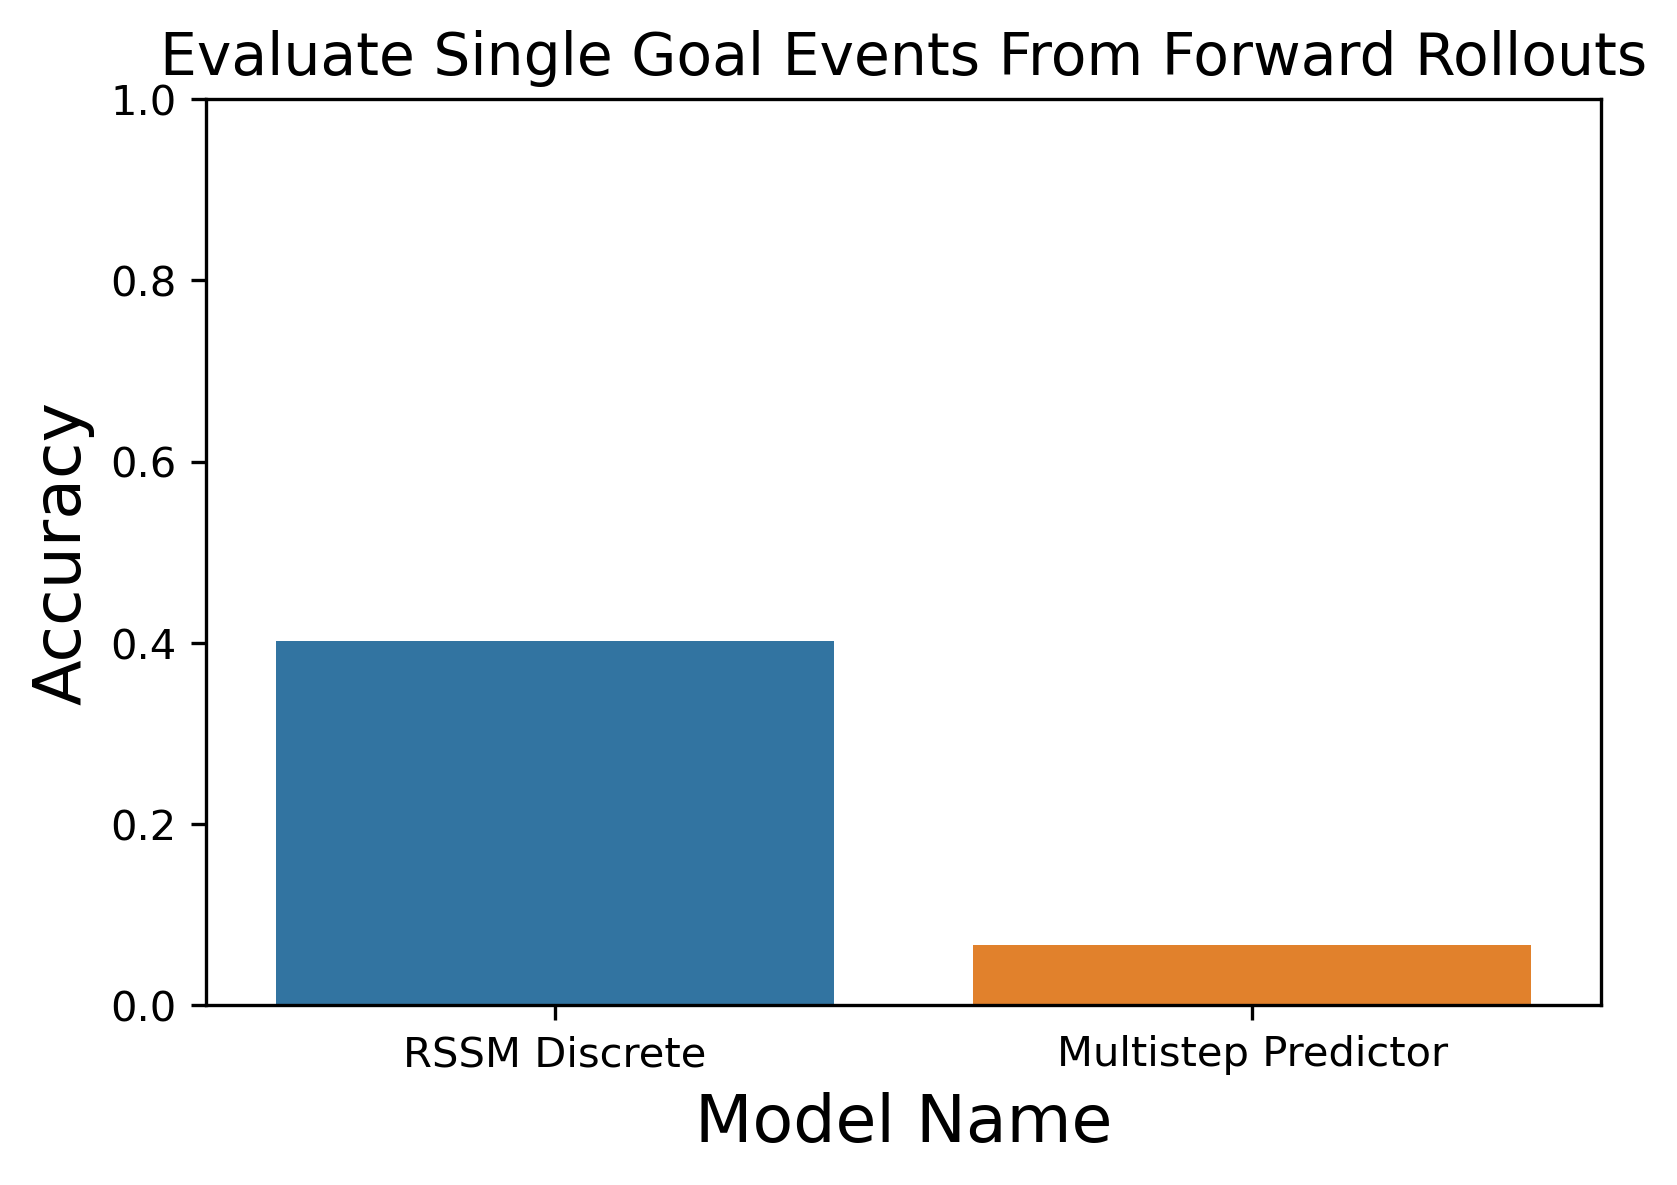
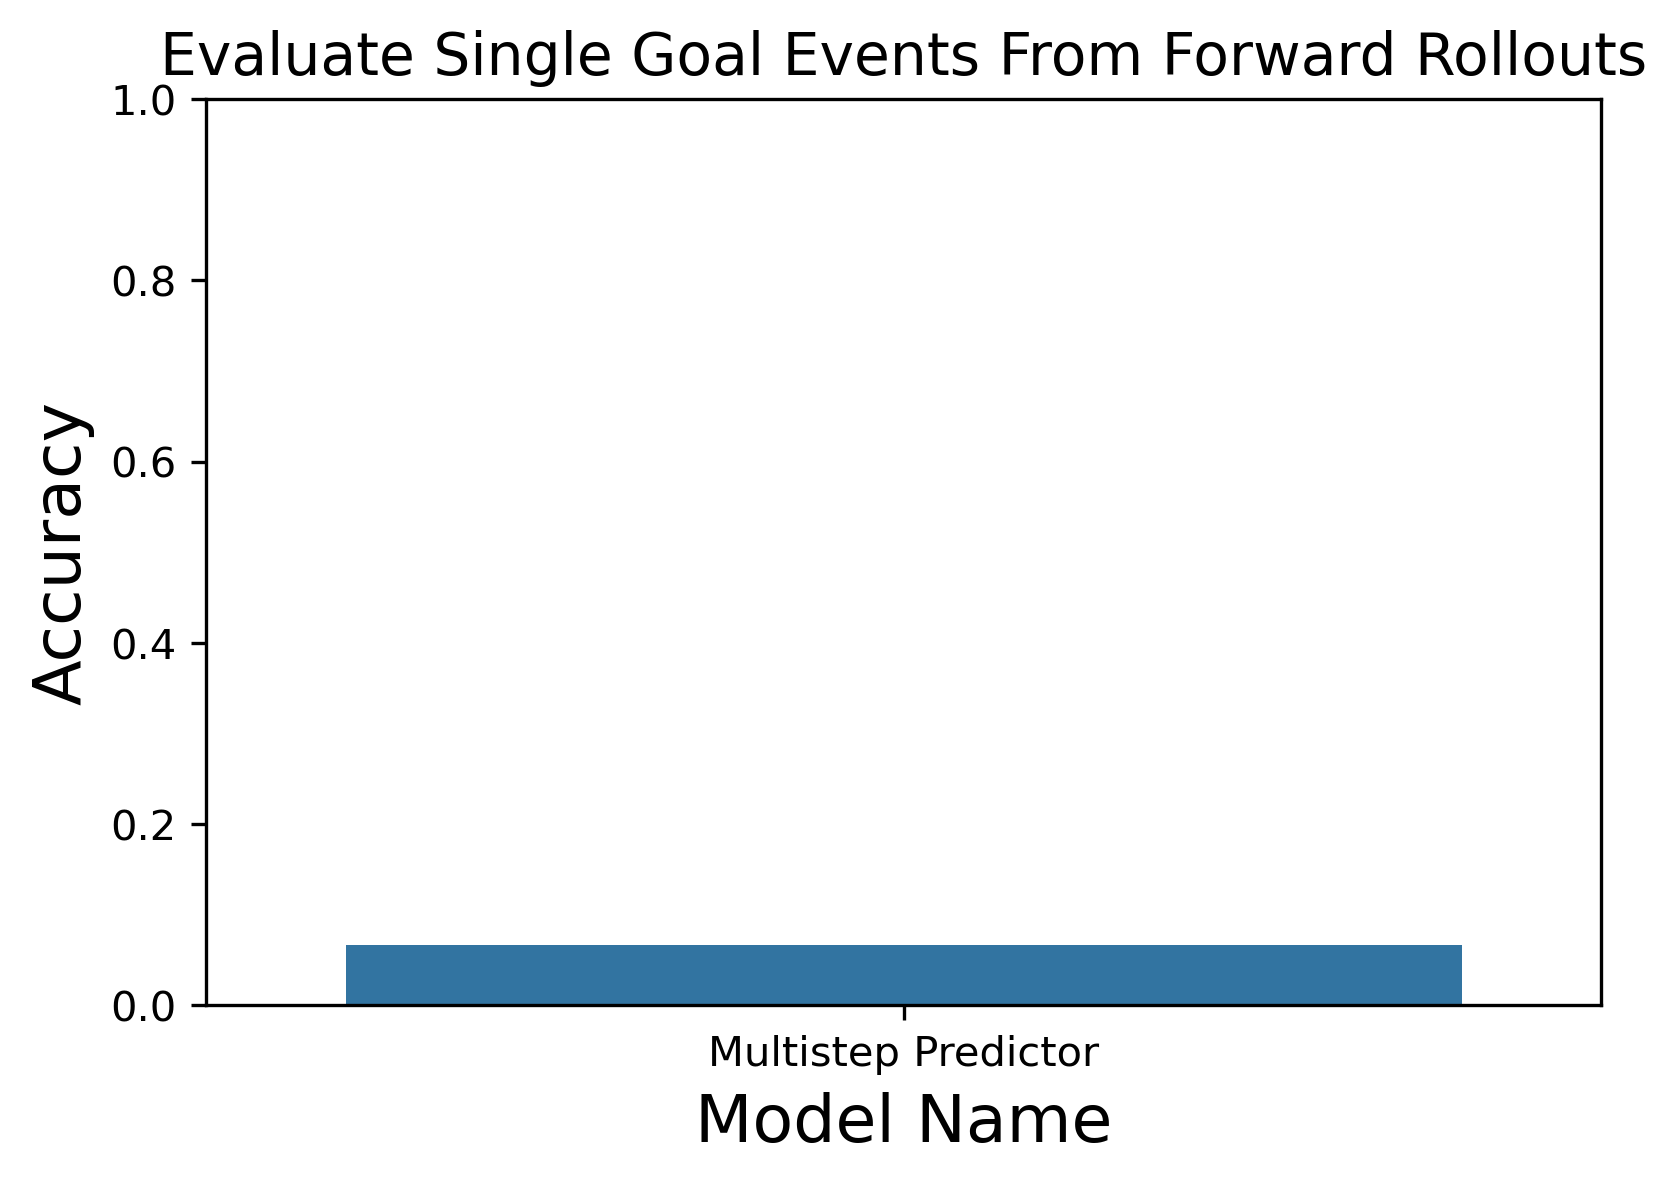
Minor

Changed region(s): [[0.155, 0.5308, 0.9302, 0.9055]]

diff --git a/constants_lc.py b/constants_lc.py
@@ -18,7 +18,7 @@ MODEL_DICT_VAL=  {
         'model_dir': 'rssm_disc', 'model_label': 'RSSM Discrete'},
     'multistep_pred': {
         'class': MultistepPredictor, 'config': 'multistep_predictor_default_config.json', 
-        'model_dir': 'multistep_pred_h1024_l2_mlp1024', 'model_label': 'Multistep Predictor'},
+        'model_dir': 'mp_input_embed_h1024_l2_mlp1024_l2', 'model_label': 'Multistep Predictor'},
     'multistep_delta': {
         'class': MultistepDelta, 'config': 'multistep_delta_default_config.json', 
         'model_dir': 'multistep_delta_h1024_l2_mlp1024_l2', 'model_label': 'Multistep Delta'},
